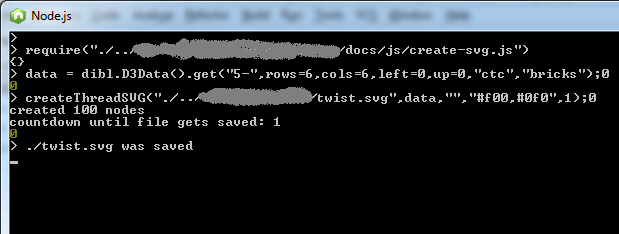
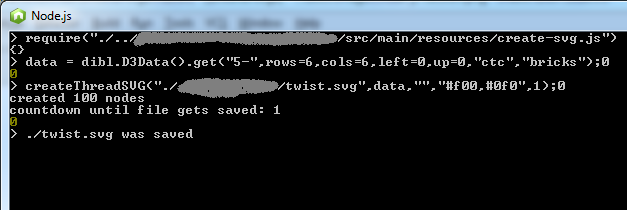
scripts to src/main/resources, error handling

Changed region(s): [[0.0, 0.0, 1.0, 0.6571], [0.0, 0.6857, 0.0307, 0.7143]]

diff --git a/src/main/resources/force.js b/src/main/resources/force.js
@@ -1,0 +1,57 @@
+/*
+ Copyright 2017 Jo Pol
+ This program is free software: you can redistribute it and/or modify
+ it under the terms of the GNU General Public License as published by
+ the Free Software Foundation, either version 3 of the License, or
+ (at your option) any later version.
+
+ This program is distributed in the hope that it will be useful,
+ but WITHOUT ANY WARRANTY; without even the implied warranty of
+ MERCHANTABILITY or FITNESS FOR A PARTICULAR PURPOSE. See the
+ GNU General Public License for more details.
+
+ You should have received a copy of the GNU General Public License
+ along with this program. If not, see http://www.gnu.org/licenses/gpl.html dibl
+*/
+
+// converts x/y of Diagram.nodes to https://github.com/d3/d3-force/#simulation_nodes
+function nodesToJS(arrayOfMaps) {
+  var result = new Array(arrayOfMaps.size())
+  for ( i = arrayOfMaps.size() ; i-- > 0 ; ){
+    map = arrayOfMaps.apply(i)
+    result[i] = {
+      x: map.get('x').get(),
+      y: map.get('y').get()
+    }
+  }
+  return result
+}
+
+// converts Diagram.links for https://github.com/d3/d3-force/#links
+function linksToJS(arrayOfMaps) {
+  var result = new Array(arrayOfMaps.size())
+  for ( i = arrayOfMaps.size() ; i-- > 0 ; ){
+    map = arrayOfMaps.apply(i)
+    result[i] = {
+      source: map.get('source').get(),
+      target: map.get('target').get(),
+      weak: map.get('weak').get()
+    }
+  }
+  return result
+}
+
+function strength(link){
+  return link.weak? 5 : 50
+}
+
+function applyForce(center, data) {
+  var nodes = nodesToJS(data.nodes())
+  var links = linksToJS(data.links())
+  d3.forceSimulation(nodes)
+    .force("charge", d3.forceManyBody().strength(-1000))
+    .force("link", d3.forceLink(links).strength(strength).distance(12).iterations(30))
+    .force("center", d3.forceCenter(center.x(), center.y()))
+    .alpha(0.0035)
+    .on("end", function() { onEnd(nodes) })
+}

diff --git a/src/main/resources/create-svg.js b/src/main/resources/create-svg.js
@@ -29,9 +29,12 @@
  ************************************************************************************************/
 
 // from docs/js
-require("./matrix-graphs.js")  // loads dibl.D3Data() compiled from scala code
-require("./show-graph.js")     // loads diagram which feeds the dibl-data to D3js
-d3 = require("./d3.v4.min.js") // loads third party modules
+require("../../../docs/js/matrix-graphs.js")  // loads dibl.D3Data() compiled from scala code
+                                              // use "target/scala-2.11/groundforge-fastopt.js" for
+                                              // debugging purposes, it is created with 'sbt fastOptJS'
+require("../../../docs/js/show-graph.js")     // loads diagram object which feeds the dibl-data to D3js
+d3 = require("../../../docs/js/d3.v4.min.js") // loads third party module,
+                                              // use "https://d3js.org/d3.v4.js" for debugging purposes
 // built-in by node.js
 fs = require("fs")
 // from node_modules

diff --git a/docs/API.md b/docs/API.md
@@ -78,7 +78,7 @@ Should you choose to use another environment, you may have to write a variant of
 
 [docs/js]: https://github.com/d-bl/GroundForge/tree/master/docs/js
 [batch.js]: https://github.com/d-bl/GroundForge/blob/master/docs/js/batch.js
-[create-svg.js]: https://github.com/d-bl/GroundForge/blob/master/docs/js/batch.js
+[create-svg.js]: https://github.com/d-bl/GroundForge/blob/master/src/main/resources/batch.js
 [run JavaScript]: https://en.wikipedia.org/wiki/List_of_ECMAScript_engines
 [node.js]: https://nodejs.org
 [release]: https://github.com/d-bl/GroundForge/releases
